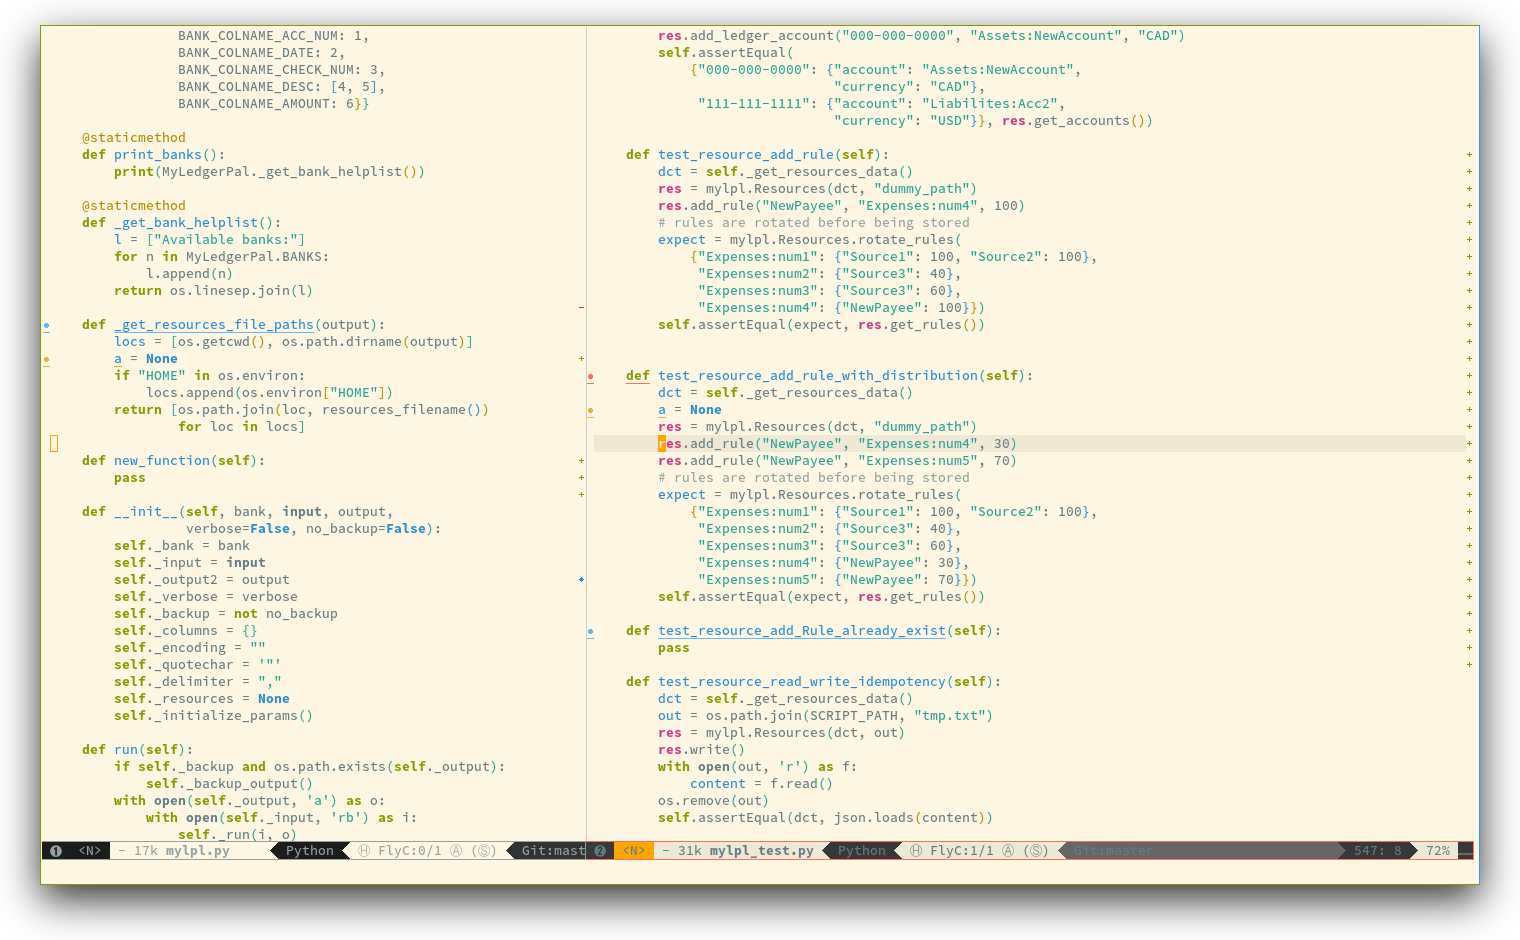
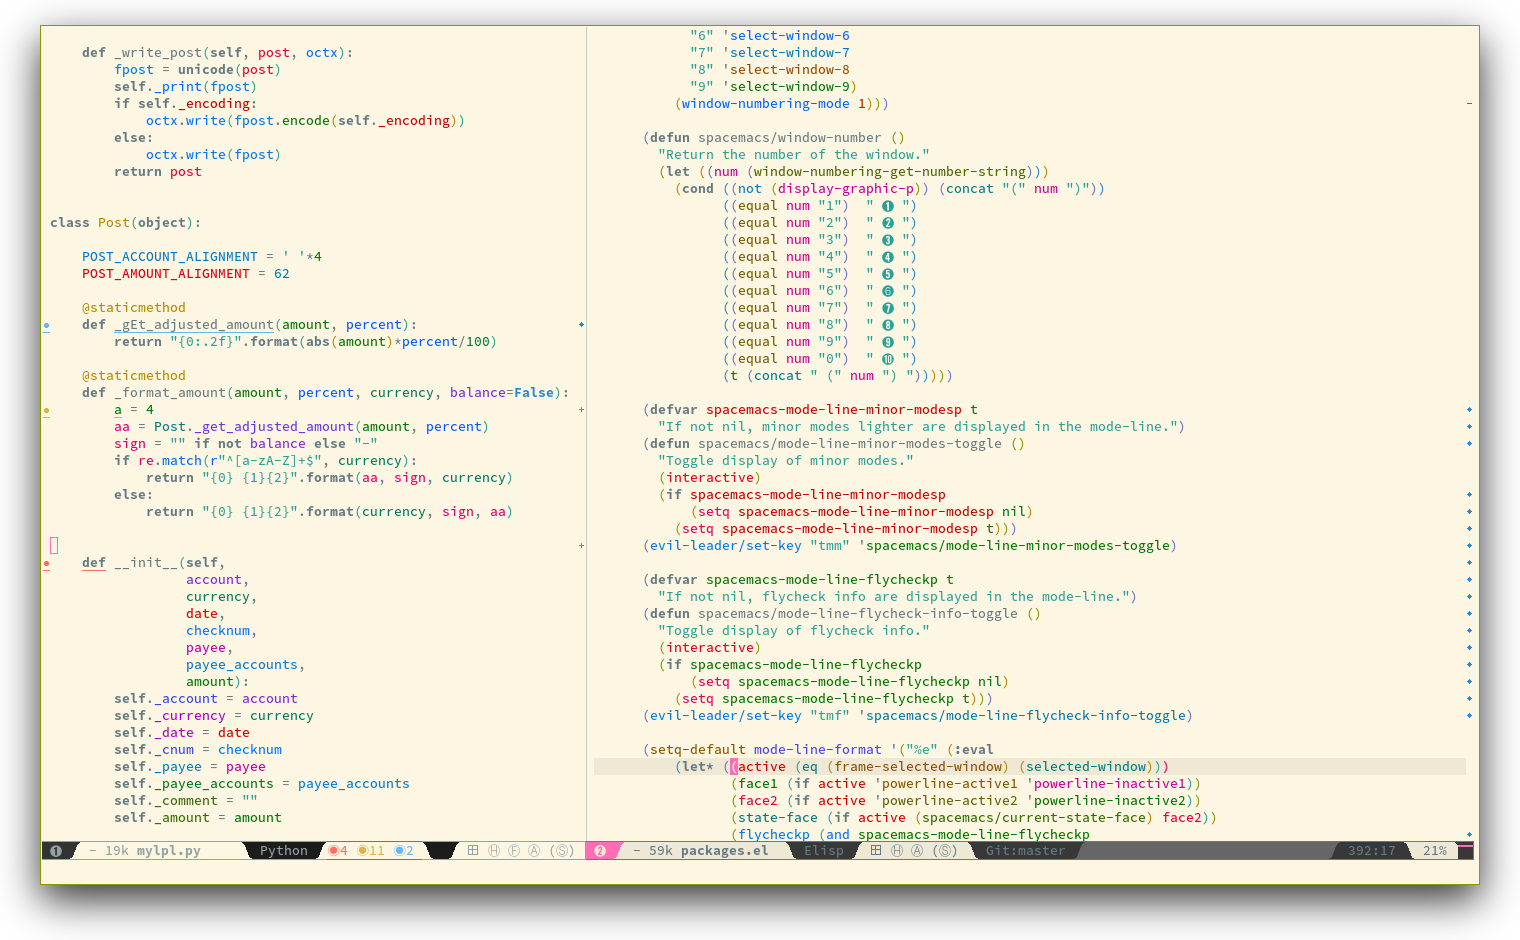
New flycheck feedback in mode-line

diff --git a/README.md b/README.md
@@ -723,25 +723,37 @@ By default, `Spacemacs` uses the theme [Solarized][solarized-theme].
 
 #### Mode-line
 
-The mode line is a [powerline][powerline] customized to show the window
-number and the colorized Evil current state.
+The mode line is an heavily customized [powerline][powerline] with the
+following capabilities:
+- show the window number
+- color code for current state
+- toggle flycheck info
+- toggle minor mode lighters
 
-The color codes for modes are:
+Reminder of the color codes for the states:
 
    Evil State     |       Color
 ------------------|------------------
 Normal            | Orange
 Insert            | Green
 Visual            | Grey
-Emacs             | Red
+Emacs             | Blue
 Motion            | Purple
+Lisp              | Pink
 
-When [Flycheck][flycheck] minor mode is enabled, the mode line color changes
-according to the current flycheck state:
+Some elements can be dynamically toggled:
 
-![flycheck-error](https://raw.githubusercontent.com/syl20bnr/spacemacs/master/doc/flycheck-error.png)
-![flycheck-warning](https://raw.githubusercontent.com/syl20bnr/spacemacs/master/doc/flycheck-warning.png)
-![flycheck-info](https://raw.githubusercontent.com/syl20bnr/spacemacs/master/doc/flycheck-info.png)
+    Key Binding   |                 Description
+------------------|------------------------------------------------------------
+`<SPC> t m m`     | toggle the minor mode lighters
+`<SPC> t m f`     | toggle the flycheck info
+
+##### Flycheck integration
+
+When [Flycheck][flycheck] minor mode is enabled, a new element appears showing
+the number of errors, warnings and info.
+
+![flycheck-mode-line](https://raw.githubusercontent.com/syl20bnr/spacemacs/master/doc/flycheck-mode-line.png)
 
 #### Toggles
 
@@ -770,7 +782,8 @@ The minor mode area can be toggled on and off with:
 Ⓒ            | [centered-cursor][centered-cursor] mode
 eⓅ           | [e-project][e-project] mode
 Ⓟ            | [projectile][projectile] mode
-Ⓕ            | flymake mode
+Ⓕ            | flycheck mode
+Ⓕ2           | flymake mode
 Ⓢ            | flyspell mode
 (Ⓢ)          | [smartparens][sp] mode
 (Ⓟ)          | paredit mode
